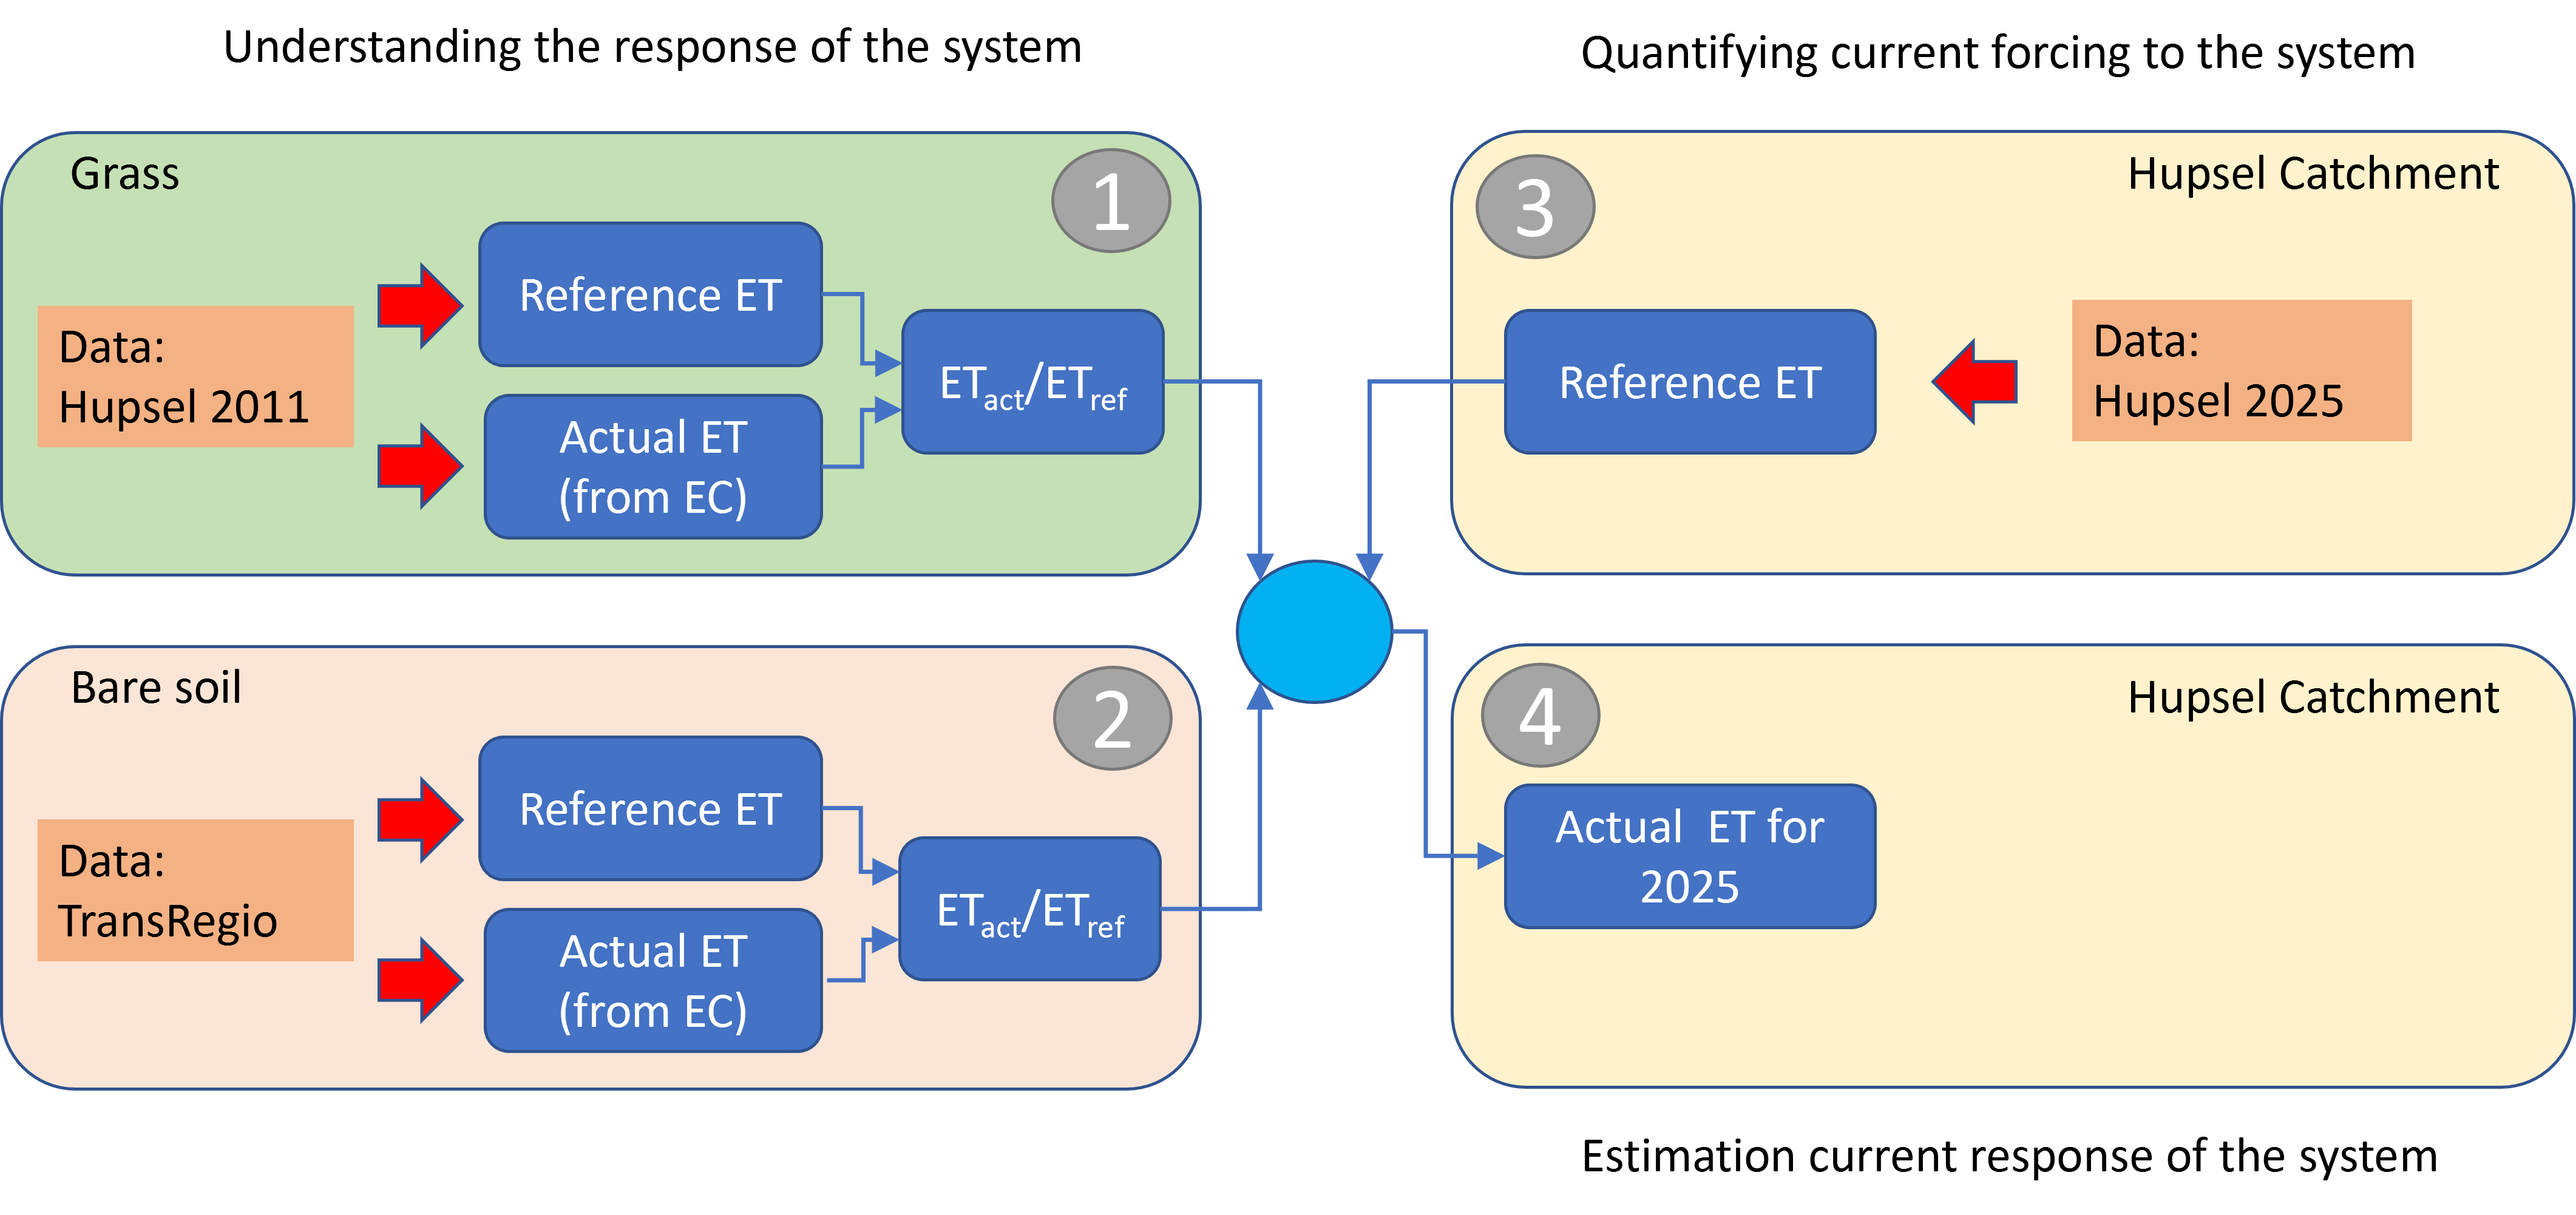
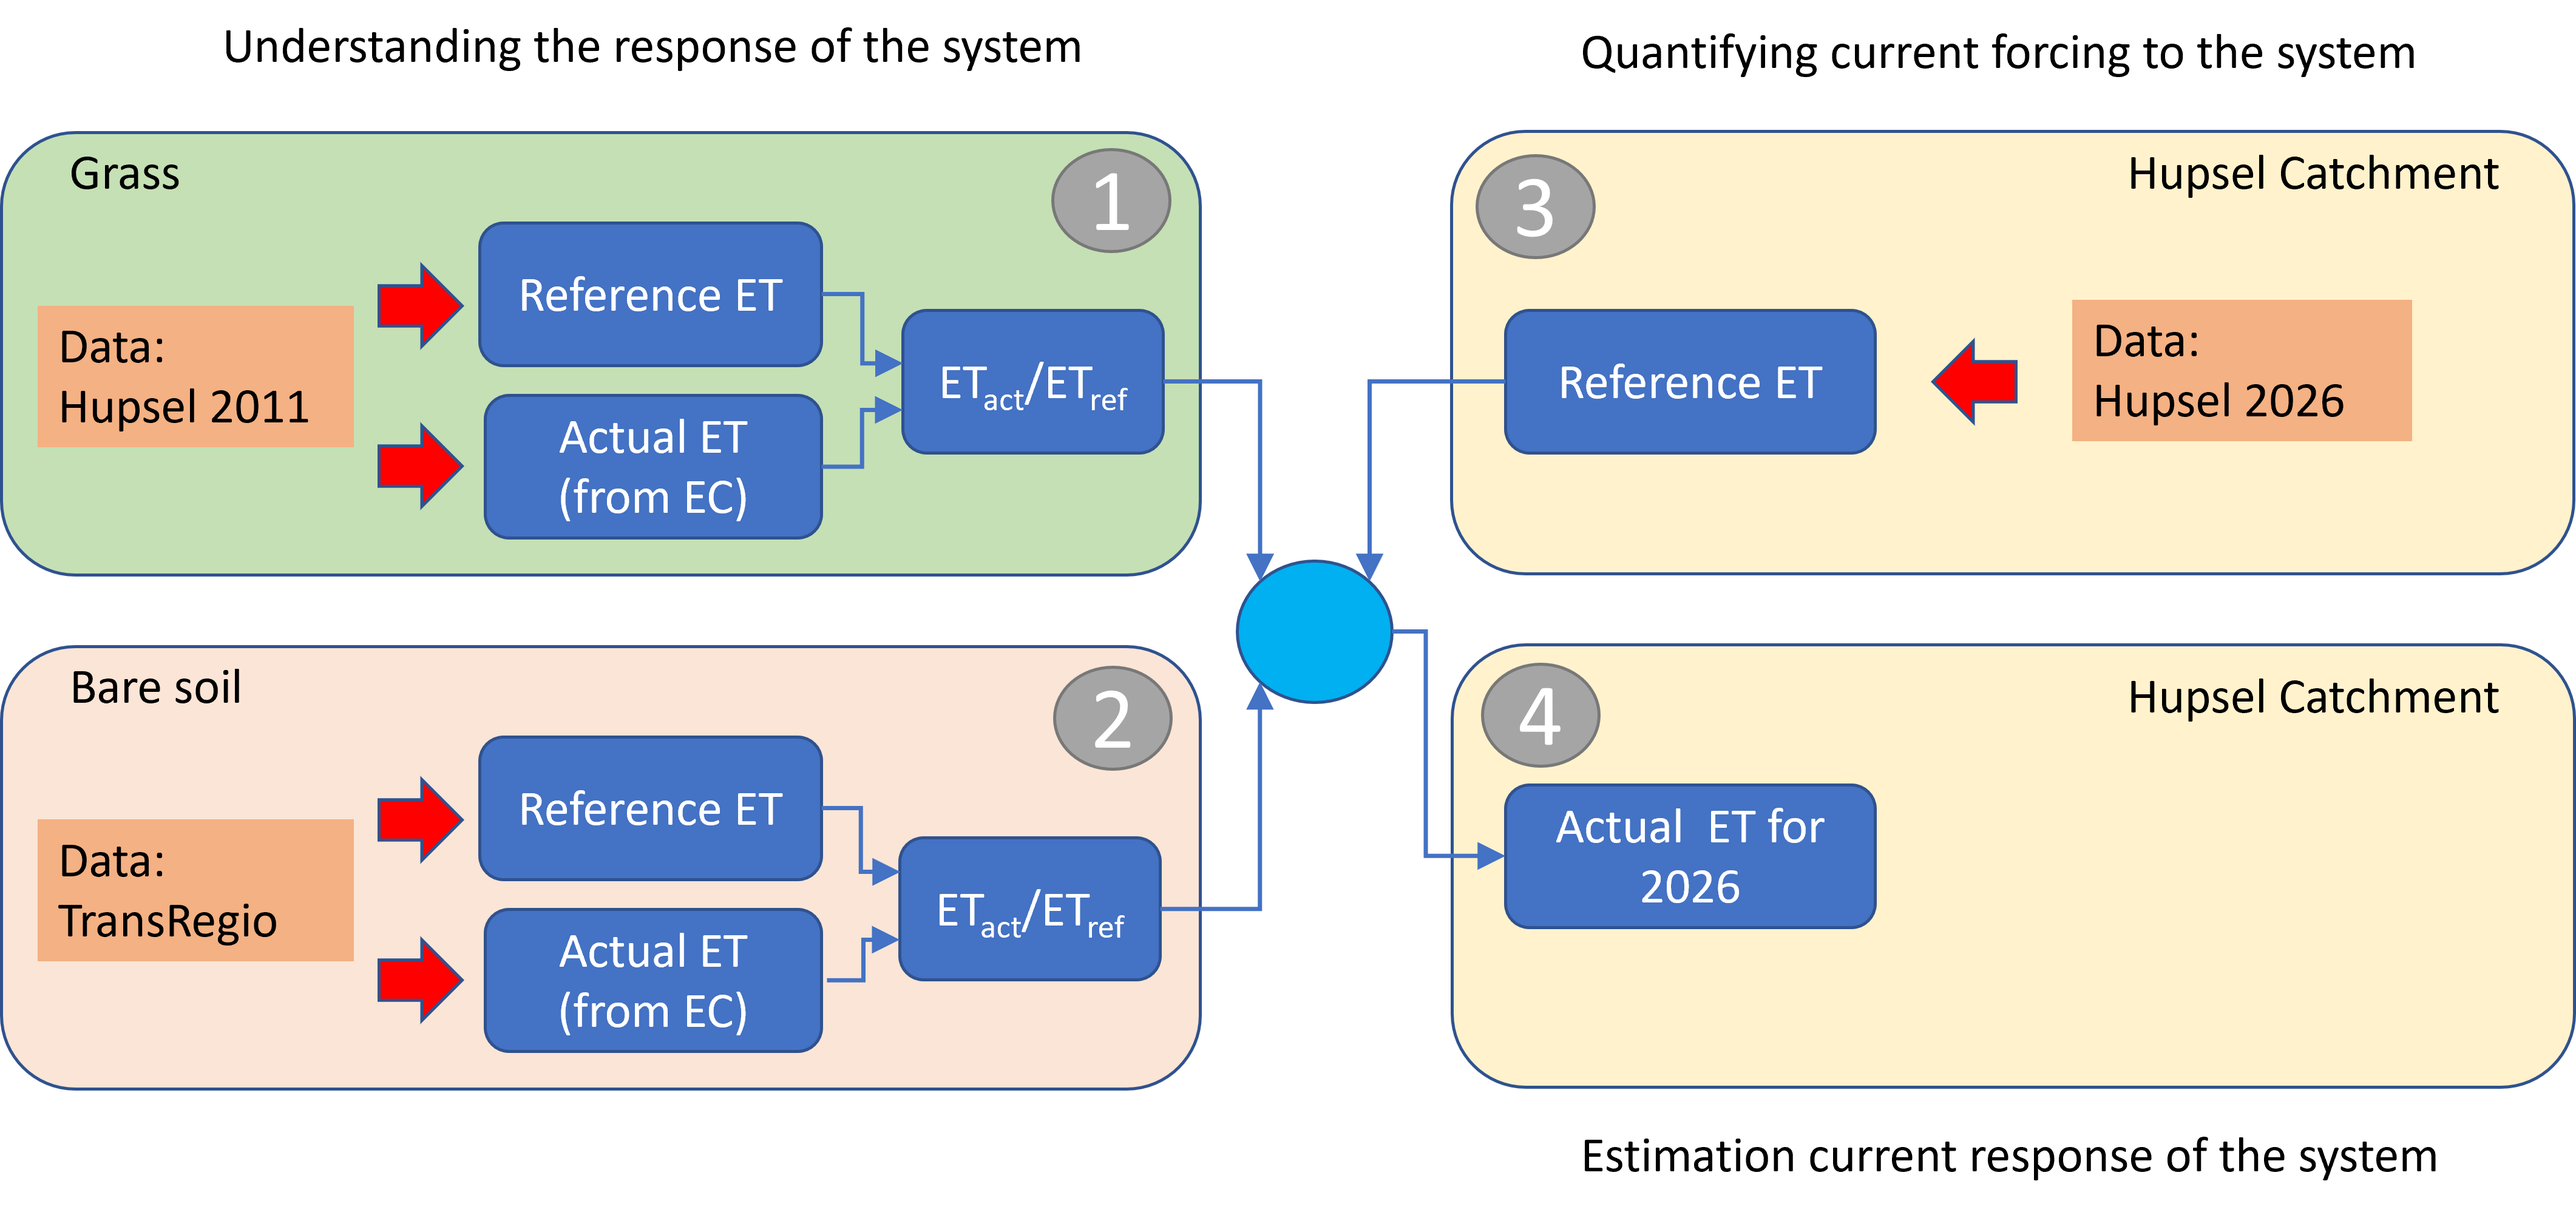
* included check_v_LE in hupsel_helper * fixed error in hupsel helper (type(LE_in[0] should be type(LE_in.iloc[0]) * Updated notebooks (in particular step 5) * added conceptual picture about order of averaging for Step 5

diff --git a/Step-5/hupsel_helper.py b/Step-5/hupsel_helper.py
@@ -1205,7 +1205,7 @@ def check_crop_factor(cf):
     if (np.sum(cf > 2)):
         my_warning("crop factors larger dan 2 are quite unlikely")
         warning += 1
-    if ( (type(cf[0]) == np.int64) | (type(cf[0]) == np.int32) ):
+    if ( (type(cf.iloc[0]) == np.int64) | (type(cf.iloc[0]) == np.int32) ):
         my_warning("your crop factor should be a real number, not an integer")
         warning += 1
     if (np.isnan(cf).any()):
@@ -1248,7 +1248,7 @@ def check_ET(ET_in):
     if (np.mean(np.abs(ET_in)) < 1e-2):
         my_warning("your actual evapotranspiration seems quite low, check your calculation and units")
         warning += 1
-    if ( (type(ET_in[0]) == np.int64) | (type(ET_in[0]) == np.int32) ):
+    if ( (type(ET_in.iloc[0]) == np.int64) | (type(ET_in.iloc[0]) == np.int32) ):
         my_warning("your actual evapotranspiration should be a real number, not an integer")
         warning += 1
     if (np.isnan(ET_in).any()):
@@ -1268,6 +1268,38 @@ def check_v_ET(v_ET_in):
         None
     """
     check_ET(v_ET_in)
+
+def check_LE(LE_in):
+    warning = 0
+    if (np.sum(LE_in < 0)):
+        my_warning("actual evapotranspiration is usually positive")
+        warning += 1
+    if (np.sum(LE_in > 10*28.4)):
+        my_warning("actual evapotranspiration above 10 mm/day is quite unlikely")
+        warning += 1
+    if (np.mean(np.abs(LE_in)) < 1e-2):
+        my_warning("your actual evapotranspiration seems quite low, check your calculation and units")
+        warning += 1
+    if ( (type(LE_in.iloc[0]) == np.int64) | (type(LE_in.iloc[0]) == np.int32) ):
+        my_warning("your actual evapotranspiration should be a real number, not an integer")
+        warning += 1
+    if (np.isnan(LE_in).any()):
+        my_warning("your actual evapotranspiration contains a not-a-number")
+        warning += 1
+    if (warning == 0):
+        print("Your values seem to be reasonable (no obious errors in terms of incorrect number type or extreme values")
+        my_warning("This does not mean that they are correct.")
+
+def check_v_LE(v_LE_in):
+    """
+    Check if your values for the actual LE (in W/m2 !) make sense
+
+    Input:
+        v_LE_in           : your values for actual LE (in W/m2)
+    Return:
+        None
+    """
+    check_LE(v_LE_in)
         
 def f_declination(Gamma):
     c0 =  0.006918
